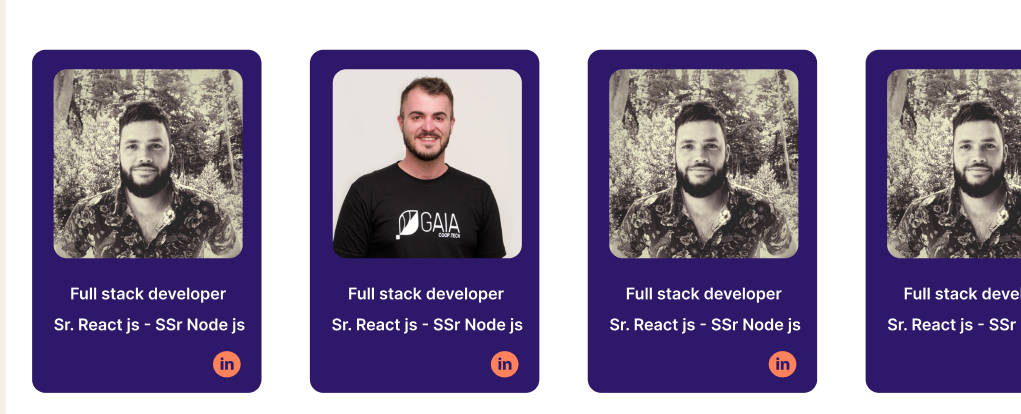
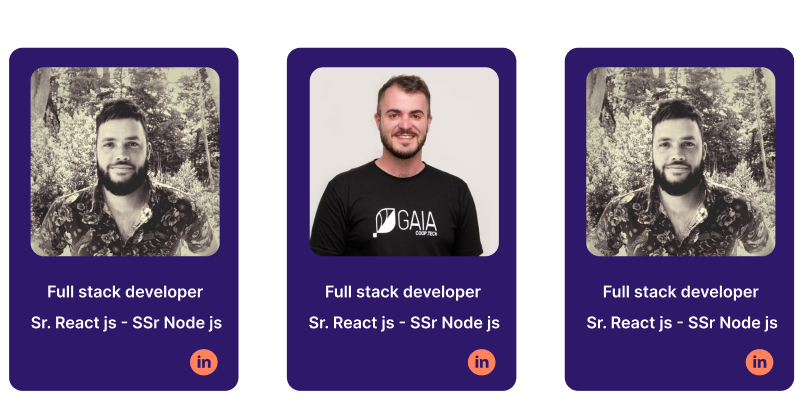
modificar imagen

diff --git a/src/pages/Home/index.tsx b/src/pages/Home/index.tsx
@@ -53,6 +53,11 @@ const Home = () => {
         icon="logostafftic.png"
         id="product"
       />
+         <br></br>
+        <br></br>
+        <br></br>
+           <br></br>
+       
       <div 
         style={{
           textAlign: "center",
@@ -64,7 +69,31 @@ const Home = () => {
         </div>
         <br></br>
         <br></br>
-      
+           <br></br>
+        <br></br>
+        <br></br>
+           <br></br>
+        <br></br>
+        <br></br>
+          <div 
+        style={{
+          textAlign: "center",
+        }}
+      >
+        <h6>Nuestros equipos</h6>
+        <br></br>
+        <img src="../../img/svg/equipo.png" alt="Descripción" width="1000" height="auto" />
+        </div>
+        <br></br>
+        <br></br>
+        <br></br>
+        <br></br>
+           <br></br>
+        <br></br>
+        <br></br>
+           <br></br>
+        <br></br>
+        <br></br>
       <Contact
         title={ContactContent.title}
         content={ContactContent.text}
